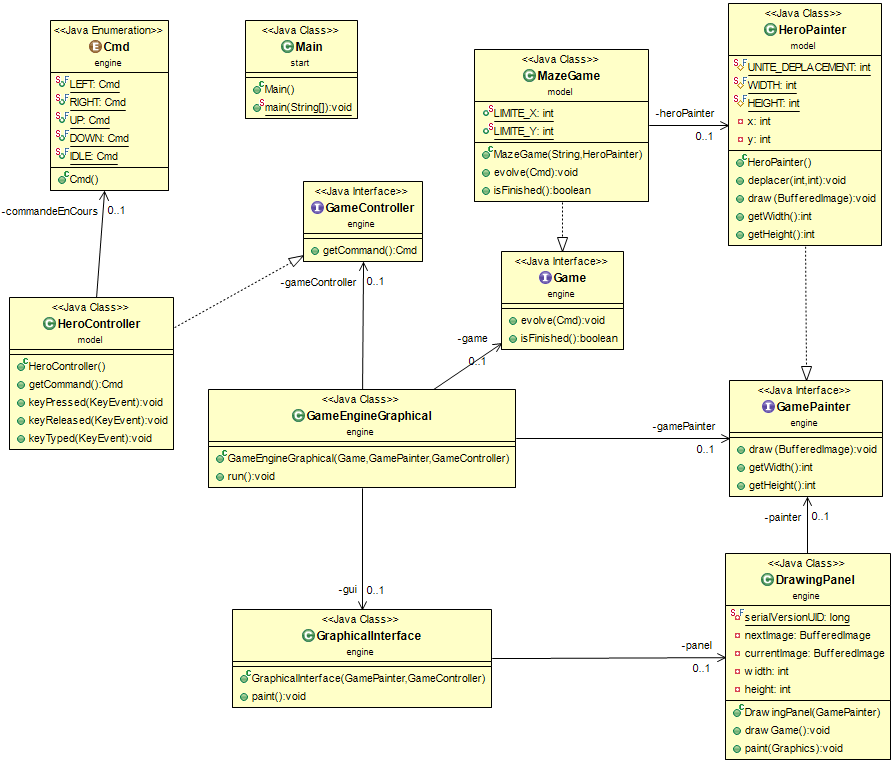
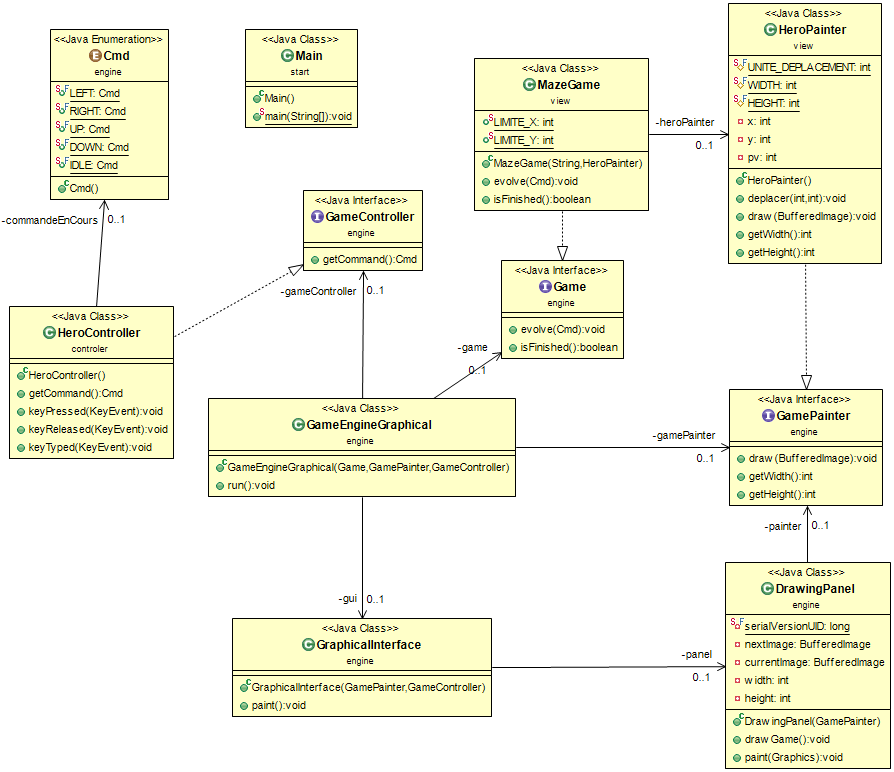
Transformation de la v1.0 en modèle MVC.

diff --git a/src/view/MazeGame.java b/src/view/MazeGame.java
@@ -1,4 +1,4 @@
-package model;
+package view;
 
 import java.io.BufferedReader;
 import java.io.FileReader;
@@ -6,6 +6,7 @@ import java.io.IOException;
 
 import engine.Cmd;
 import engine.Game;
+import model.Hero;
 
 /**
  * @author Horatiu Cirstea, Vincent Thomas
@@ -16,7 +17,7 @@ import engine.Game;
  */
 public class MazeGame implements Game {
 
-	private HeroPainter heroPainter;
+	private HeroPainter heropainter;
 
 	public static int LIMITE_X=100;
 	public static int LIMITE_Y=100;
@@ -25,9 +26,9 @@ public class MazeGame implements Game {
 	 * constructeur avec fichier source pour le help
 	 * 
 	 */
-	public MazeGame(String source, HeroPainter hero) {
+	public MazeGame(String source, HeroPainter heropainter) {
 		BufferedReader helpReader;
-		heroPainter=hero;
+		this.heropainter=heropainter;
 		try {
 			helpReader = new BufferedReader(new FileReader(source));
 			String ligne;
@@ -49,13 +50,13 @@ public class MazeGame implements Game {
 	public void evolve(Cmd commande) {
 		System.out.println("Execute "+commande);
 		if (commande.equals(Cmd.UP)) {
-			heroPainter.deplacer(0, -HeroPainter.UNITE_DEPLACEMENT);
+			this.heropainter.getHero().deplacer(0, -HeroPainter.UNITE_DEPLACEMENT);
 		} else if (commande.equals(Cmd.DOWN)) {
-			heroPainter.deplacer(0,HeroPainter.UNITE_DEPLACEMENT);
+			this.heropainter.getHero().deplacer(0,HeroPainter.UNITE_DEPLACEMENT);
 		} else if (commande.equals(Cmd.LEFT)) {
-			heroPainter.deplacer(-HeroPainter.UNITE_DEPLACEMENT,0);
+			this.heropainter.getHero().deplacer(-HeroPainter.UNITE_DEPLACEMENT,0);
 		} else if (commande.equals(Cmd.RIGHT)) {
-			heroPainter.deplacer(HeroPainter.UNITE_DEPLACEMENT,0);
+			this.heropainter.getHero().deplacer(HeroPainter.UNITE_DEPLACEMENT,0);
 		}
 	}
 

diff --git a/src/view/HeroPainter.java b/src/view/HeroPainter.java
@@ -1,10 +1,11 @@
-package model;
+package view;
 
 import java.awt.Color;
 import java.awt.Graphics2D;
 import java.awt.image.BufferedImage;
 
 import engine.GamePainter;
+import model.Hero;
 
 /**
  * @author Horatiu Cirstea, Vincent Thomas
@@ -22,33 +23,28 @@ public class HeroPainter implements GamePainter {
 	protected static final int WIDTH = 100;
 	protected static final int HEIGHT = 100;
 
-	private int x;
-	private int y;
-	private int pv;
-
-	/**
-	 * appelle constructeur parent
-	 * 
-	 * @param game
-	 *            le jeutest a afficher
-	 */
-	public HeroPainter() {
-		this.x=0;
-		this.y=0;
-		this.pv = 30;
+	private Hero hero;
+	
+	public HeroPainter(Hero hero)
+	{
+		this.hero = hero;
 	}
 
-	public void deplacer(int x,int y) {
-		if ((this.x+x>=0) && (this.x+x<MazeGame.LIMITE_X)) {
-			this.x += x;
-			System.out.println("X : "+this.x);
-		}
 
-		if ((this.y+y>=0) && (this.y+y<MazeGame.LIMITE_Y)) {
-			this.y += y;
-			System.out.println("Y : "+this.y);
-		}
+	public Hero getHero() {
+		return hero;
 	}
+
+
+	public void setHero(Hero hero) {
+		this.hero = hero;
+	}
+
+
+	public static int getUniteDeplacement() {
+		return UNITE_DEPLACEMENT;
+	}
+
 
 	/**
 	 * methode  redefinie de Afficheur retourne une image du jeu
@@ -57,11 +53,11 @@ public class HeroPainter implements GamePainter {
 	public void draw(BufferedImage im) {
 		Graphics2D crayon = (Graphics2D) im.getGraphics();
 		crayon.setColor(Color.blue);
-		crayon.fillOval(x,y,10,10);
-		if(pv>0)
+		crayon.fillOval(this.hero.getX(),this.hero.getY(),10,10);
+		if(this.hero.getPv()>0)
 		{
 			crayon.setColor(Color.red);
-			crayon.fillRect(x, y-10, this.pv, 5);
+			crayon.fillRect(this.hero.getX(), this.hero.getY()-10, this.hero.getPv(), 5);
 		}
 	}
 

diff --git a/src/start/Main.java b/src/start/Main.java
@@ -1,9 +1,10 @@
 package start;
 
-import model.HeroPainter;
+import controler.HeroController;
 import engine.GameEngineGraphical;
-import model.HeroController;
-import model.MazeGame;
+import model.Hero;
+import view.HeroPainter;
+import view.MazeGame;
 
 /**
  * lancement du moteur avec le jeu
@@ -11,7 +12,8 @@ import model.MazeGame;
 public class Main {
 
 	public static void main(String[] args) throws InterruptedException {
-		HeroPainter painter = new HeroPainter();
+		Hero hero = new Hero();
+		HeroPainter painter = new HeroPainter(hero);
 		HeroController controller = new HeroController();
 
 		// creation du jeu particulier et de son afficheur

diff --git a/src/model/Hero.java b/src/model/Hero.java
@@ -1,0 +1,37 @@
+package model;
+
+import view.MazeGame;
+
+public class Hero extends Personnage {
+
+	
+	public Hero() {
+		super();
+		this.x = 0;
+		this.y = 0;
+	}
+	
+	@Override
+	public void deplacer(int x,int y) {
+		if ((this.x+x>=0) && (this.x+x<MazeGame.LIMITE_X)) {
+			this.x += x;
+			System.out.println("X : "+this.x);
+		}
+
+		if ((this.y+y>=0) && (this.y+y<MazeGame.LIMITE_Y)) {
+			this.y += y;
+			System.out.println("Y : "+this.y);
+		}
+		
+	}
+	
+
+	@Override
+	public void attaquer() {
+		// TODO Auto-generated method stub
+		
+	}
+	
+	
+
+}

diff --git a/src/model/Personnage.java b/src/model/Personnage.java
@@ -1,0 +1,41 @@
+package model;
+
+public abstract class Personnage {
+	
+	protected int x;
+	protected int y;
+	protected int pv;
+	
+	public Personnage() {
+		this.pv = 10;
+	}
+
+	abstract public void deplacer(int x, int y);
+	
+	public int getX() {
+		return x;
+	}
+
+	public void setX(int x) {
+		this.x = x;
+	}
+
+	public int getY() {
+		return y;
+	}
+
+	public void setY(int y) {
+		this.y = y;
+	}
+
+	public int getPv() {
+		return pv;
+	}
+
+	public void setPv(int pv) {
+		this.pv = pv;
+	}
+
+	abstract public void attaquer();
+	
+}

diff --git a/src/controler/HeroController.java b/src/controler/HeroController.java
@@ -1,4 +1,4 @@
-package model;
+package controler;
 
 import java.awt.event.KeyEvent;
 
